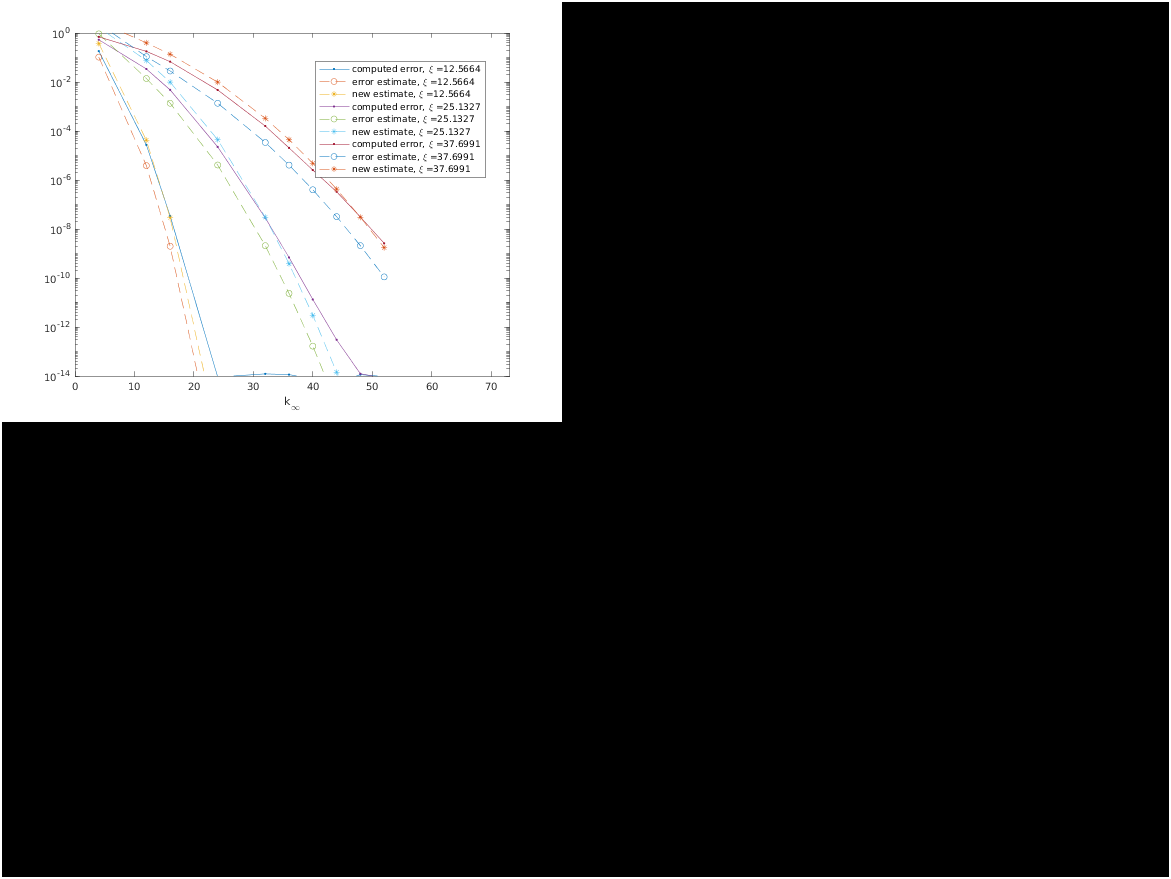
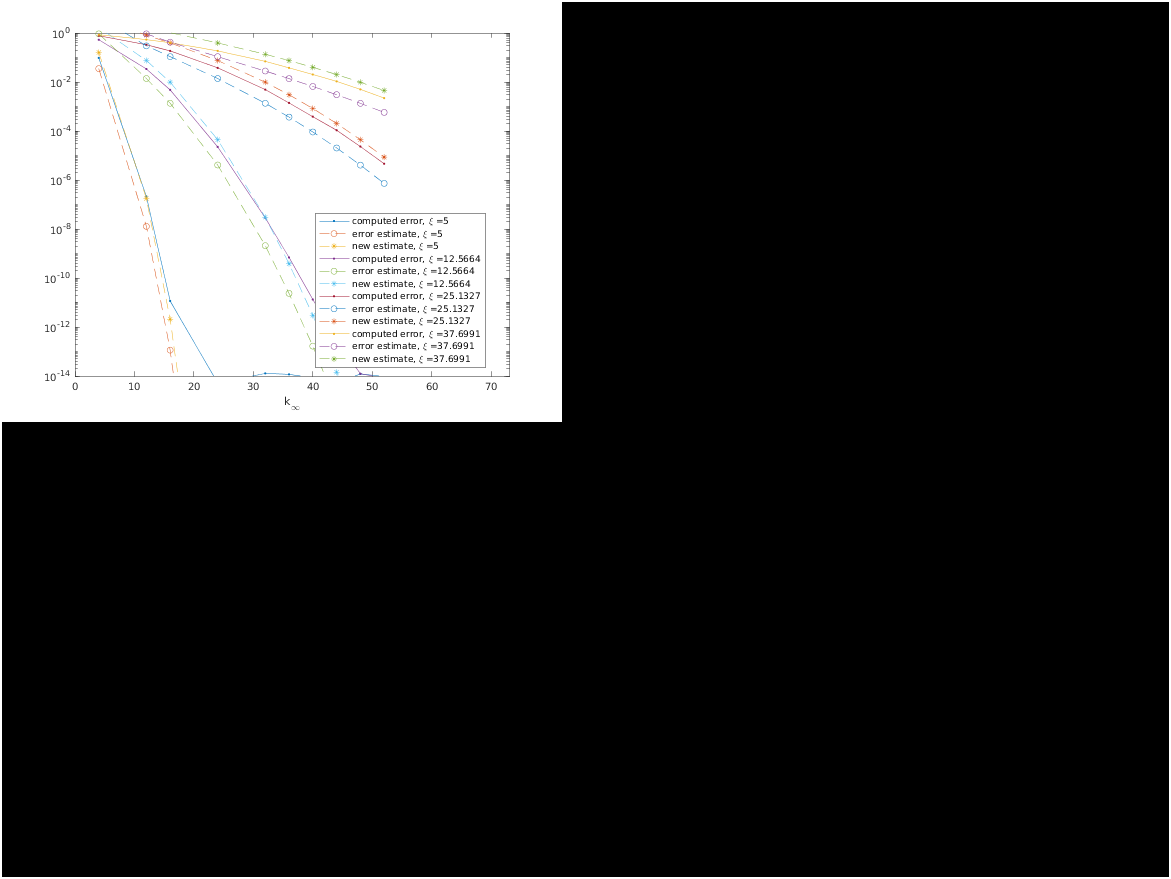
img

diff --git a/SE_Stokes_run/SE3P_Stokes/param_select_approx.m b/SE_Stokes_run/SE3P_Stokes/param_select_approx.m
@@ -8,7 +8,7 @@ N = 100; % number of source particles
 
 
 %% Parameter selection
-L = 1; % box side length
+L = 2; % box side length
 box = [L L L]; % periodic box
 opt.box = box;
 
@@ -27,7 +27,7 @@ opt.betaP = 2.5;
 opt.box = box;
 refv = [];
 rms_ev = [];
-xx = (4:4:12)*pi;
+xx = [5,(4:4:12)*pi];
 
     %% Direct solution
 if(exist('refval.mat'))
